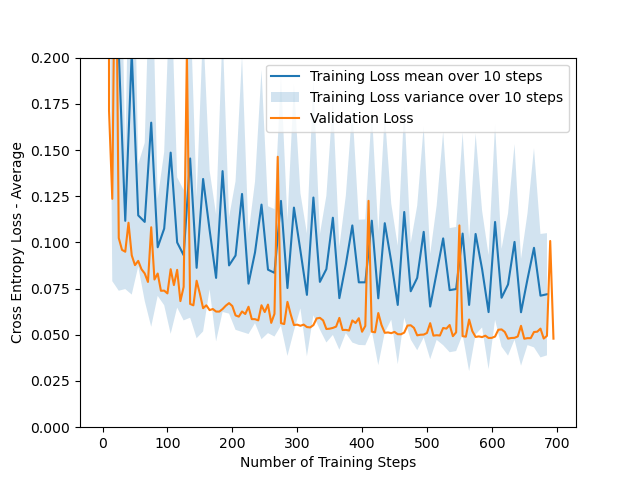
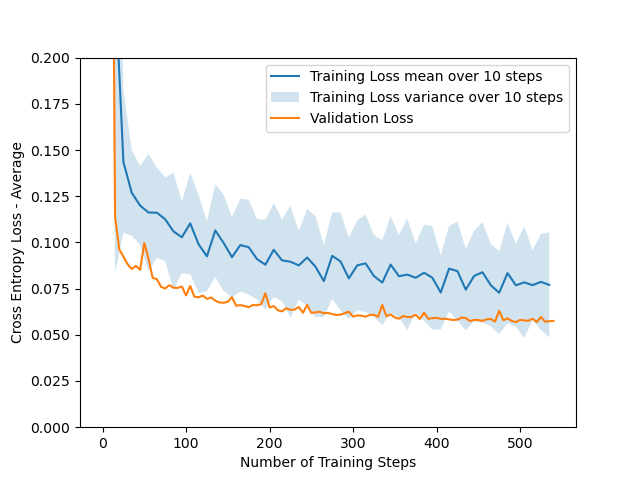
Turn on stochastic training/validation set

diff --git a/assignment1/task2.py b/assignment1/task2.py
@@ -77,7 +77,7 @@ if __name__ == "__main__":
     # Load dataset
     category1, category2 = 2, 3
     X_train, Y_train, X_val, Y_val = utils.load_binary_dataset(
-        category1, category2, sample_stochastic=False)
+        category1, category2)
 
     X_train = pre_process_images(X_train)
     X_val = pre_process_images(X_val)
